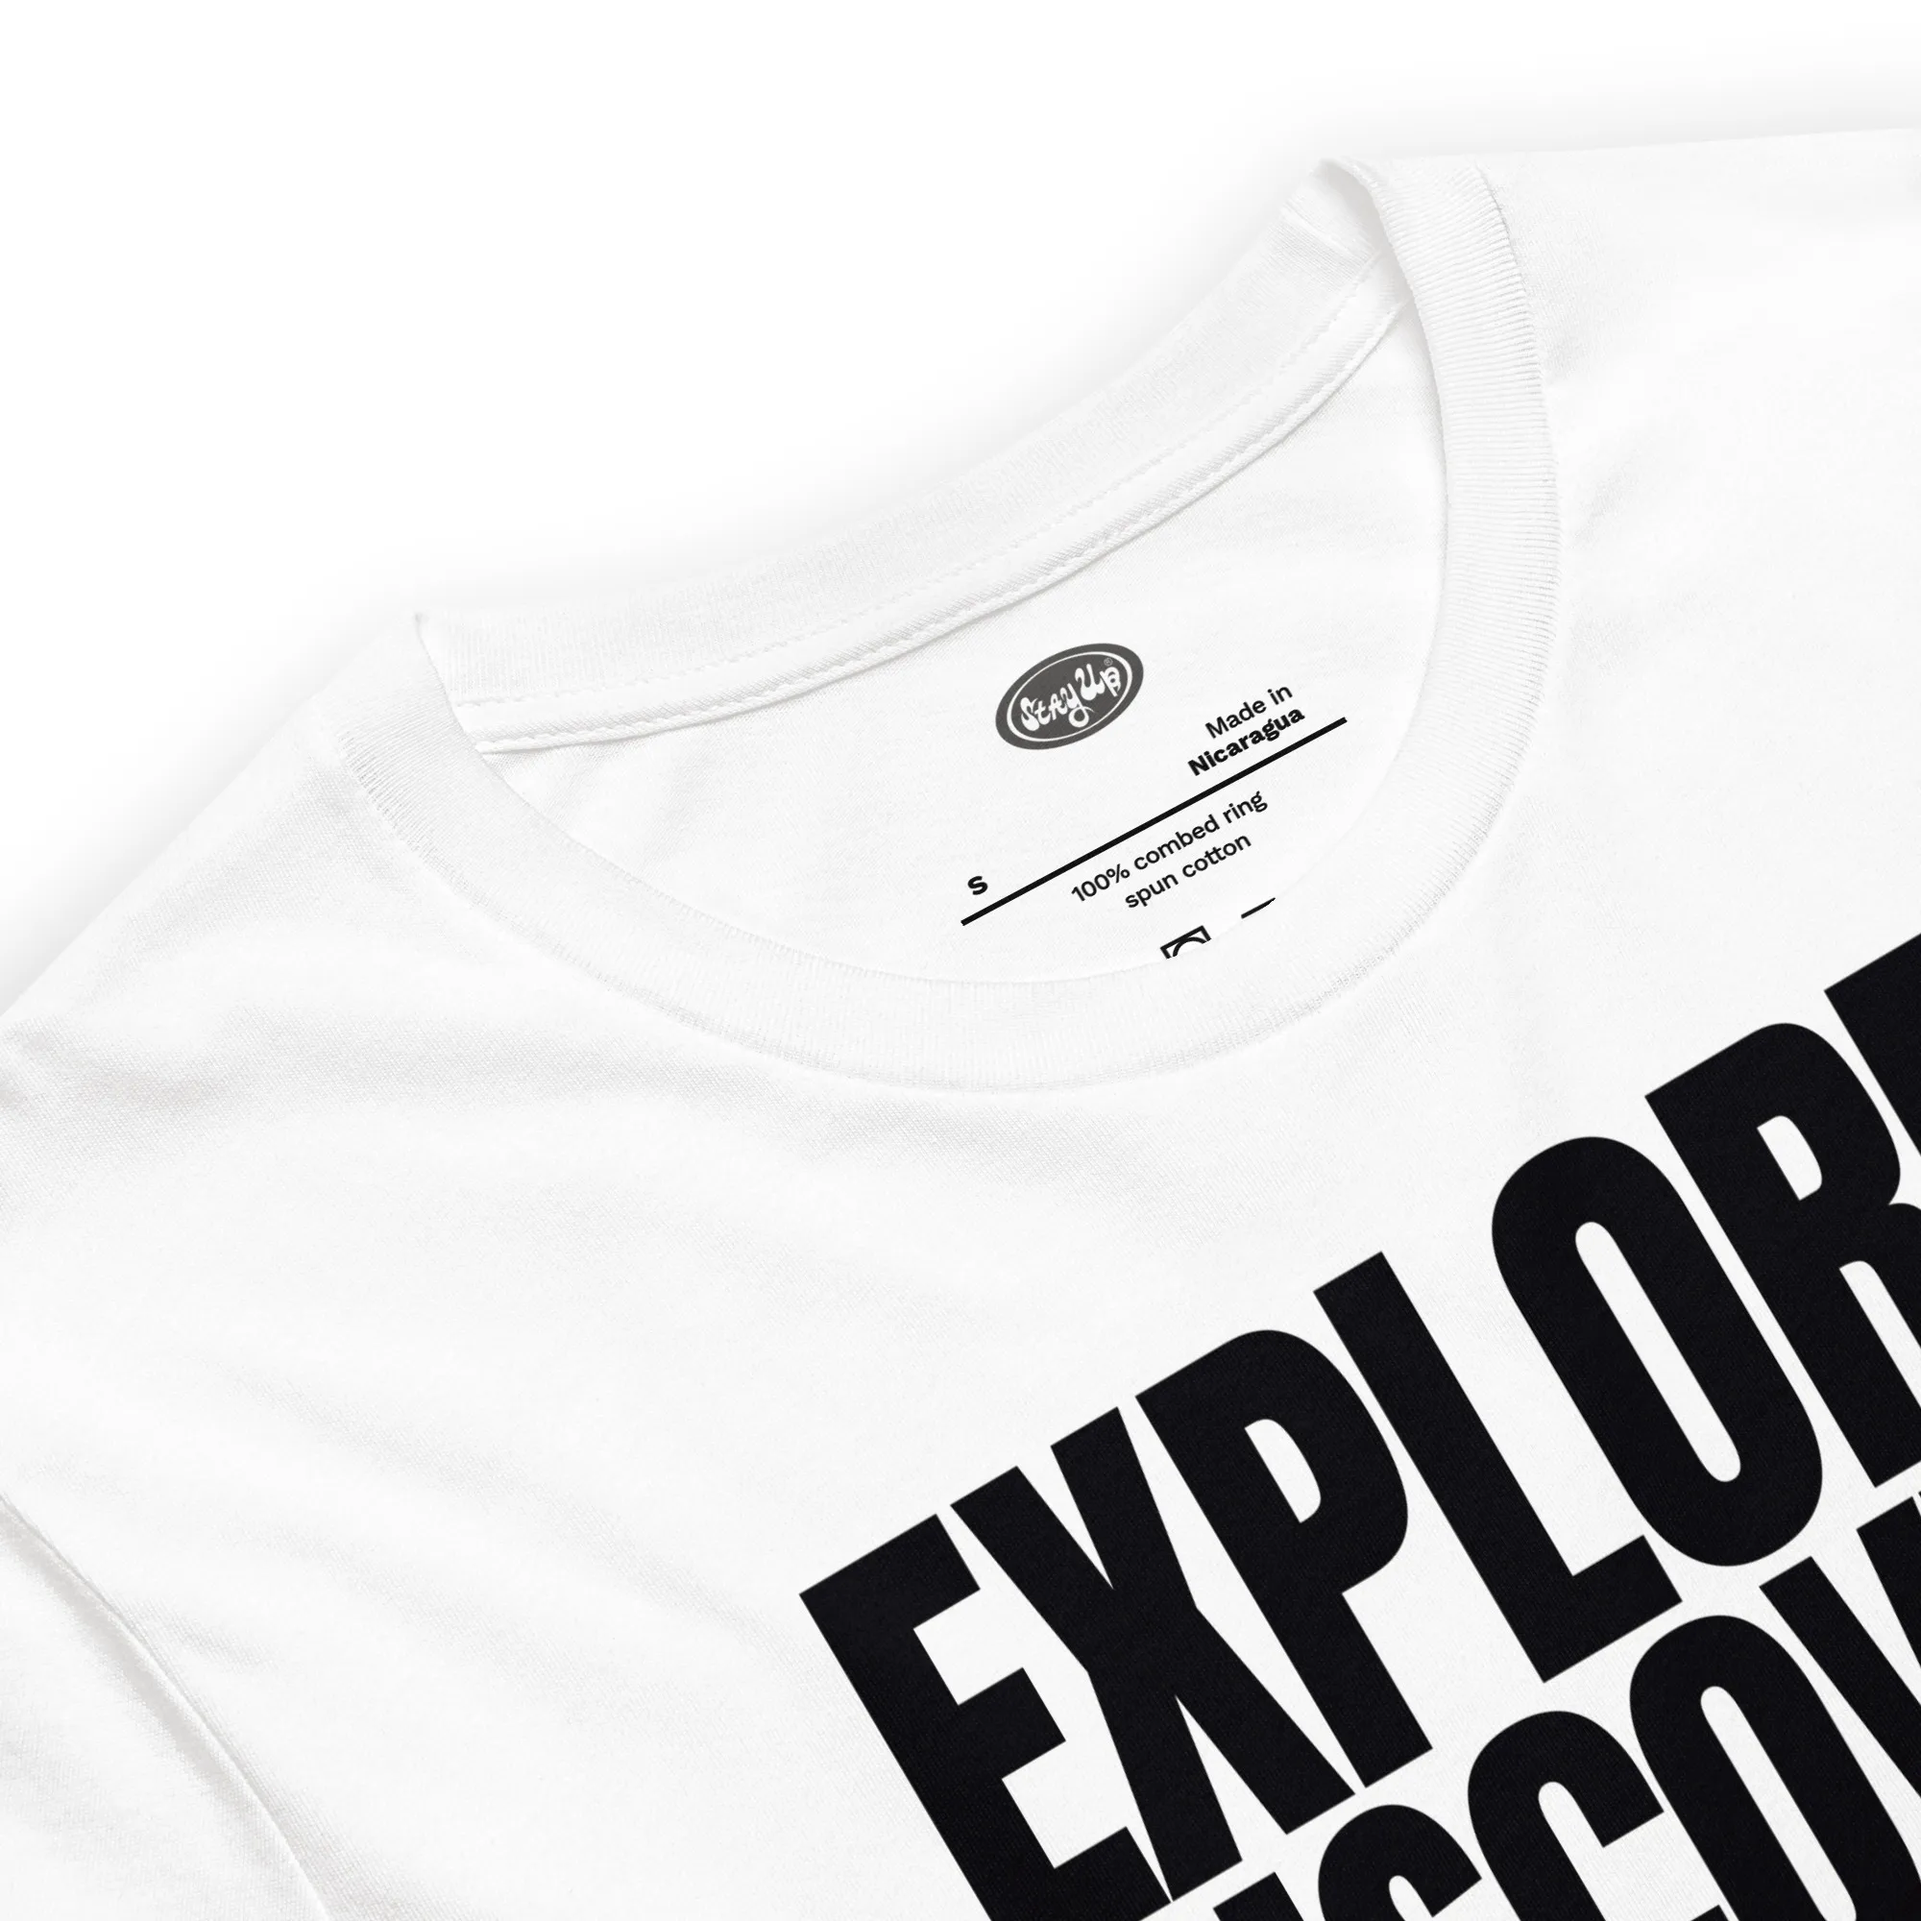
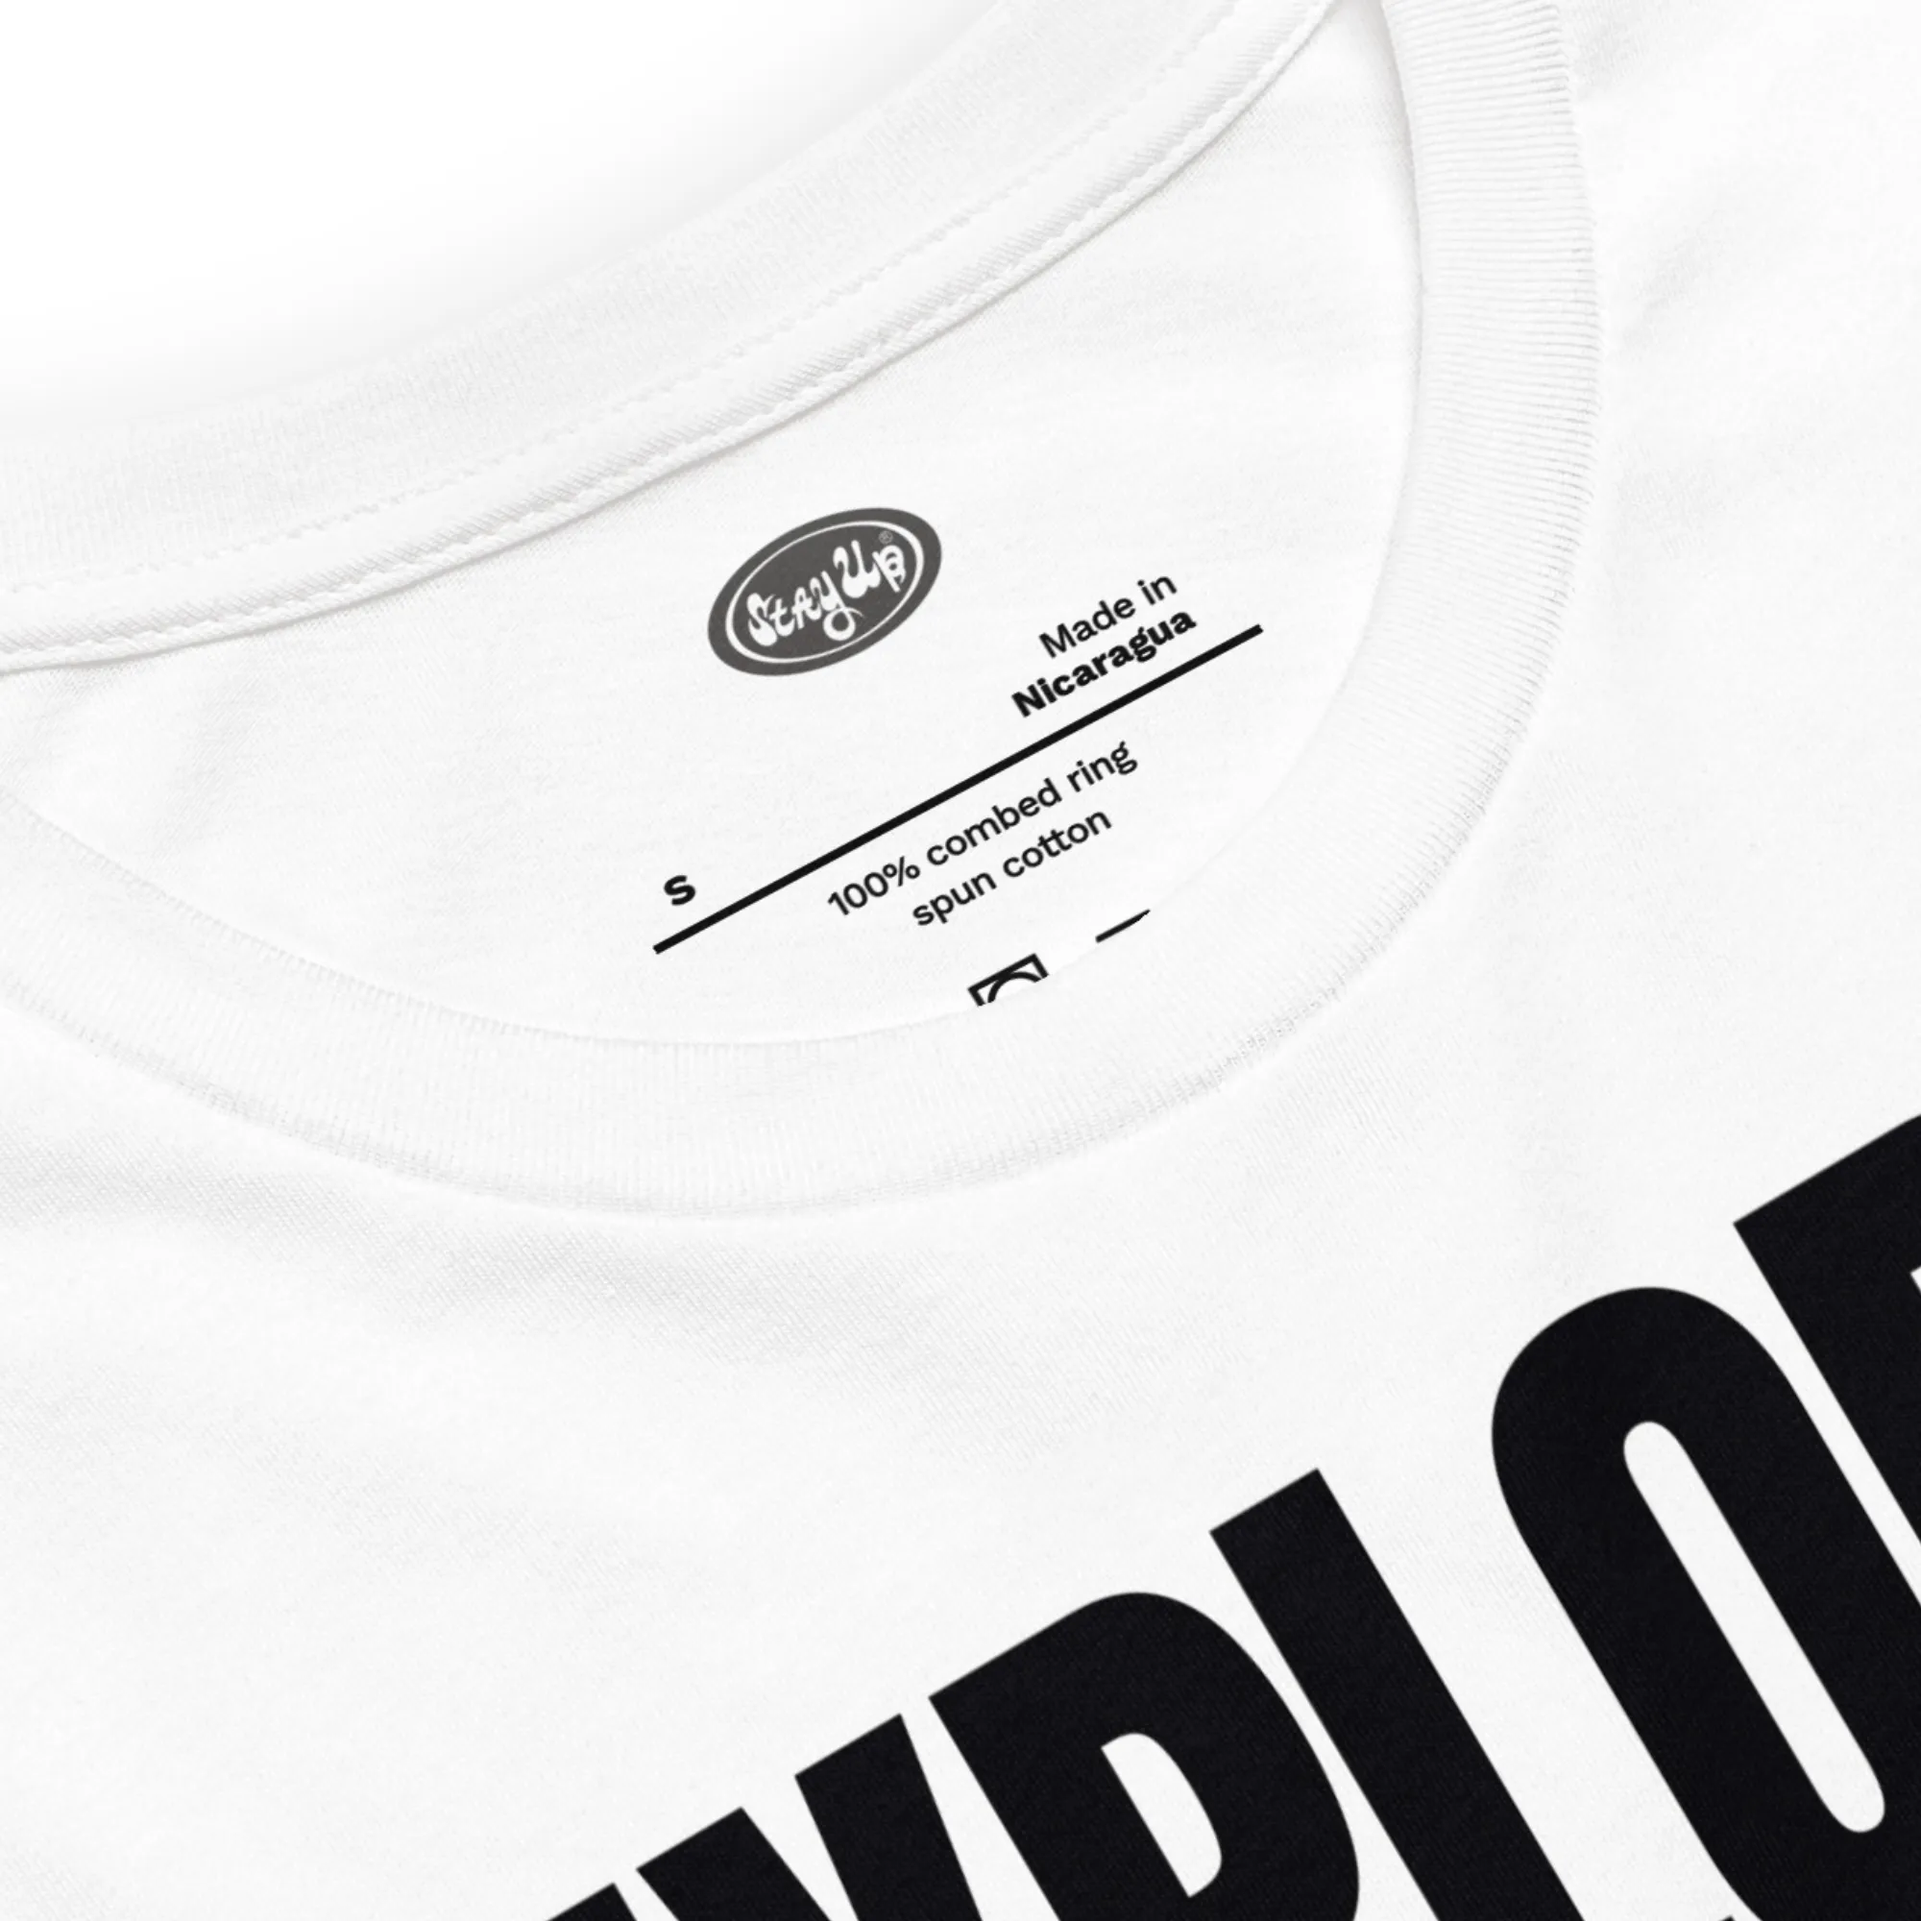
added new closeup images

diff --git a/index.html b/index.html
@@ -789,8 +789,8 @@
         <!-- Back: inner label closeup -->
         <div class="flip-back">
             <picture>
-                <source srcset="Images/stay-up-verb-collection/stay-up-explore-t-shirt.webp" type="image/webp">
-                <img src="Images/stay-up-verb-collection/stay-up-explore-t-shirt.jpg"
+                <source srcset="Images/stay-up-verb-collection/stay-up-explore-label-close-up-t-shirt.webp" type="image/webp">
+                <img src="Images/stay-up-verb-collection/stay-up-explore-label-close-up-t-shirt.jpg"
                      alt="Stay Up Clothing inner label closeup"
                      loading="lazy">
             </picture>
